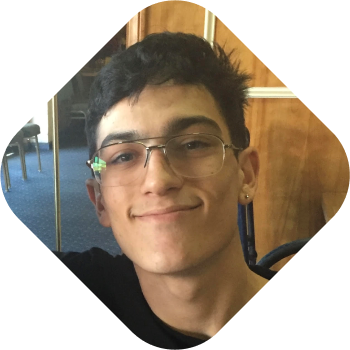
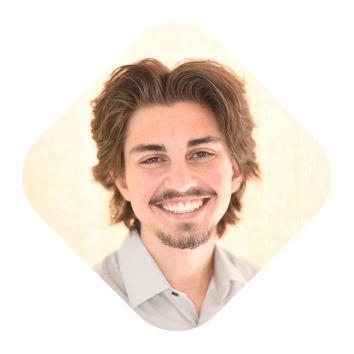
HBD AARON 👑

diff --git a/src/lib/components/index/hero.svelte b/src/lib/components/index/hero.svelte
@@ -8,11 +8,12 @@
     num++;
     if (num == 3) {
       photo = 'assets/png/hero-new.png';
+      /* There's a better way to do this but I've never read the Svelte docs LOL */
       document.getElementById('txt').innerHTML = `
         <div style="display: flex; flex-direction: column;">
-          <h4 class="headers size-md">Happy 21st birthday to the 🐐</h4>
-          <h3 class="brand-em brand-blue">Ethan Davidson 🎂🎉</h3> 
-          <p class="brand-med size-sm">We ❤ You - ACM Board :)</p>
+          <h4 class="headers size-md">EVERYONE BOW TO OUR PRESIDENT</h4>
+          <h3 class="brand-em brand-blue">AARON IS 21 YEARS OLD</h3> 
+          <p class="brand-med size-sm">HAPPY BIRTHDAY 👑 - ACM board :)</p>
         </div>
       `;
     }
